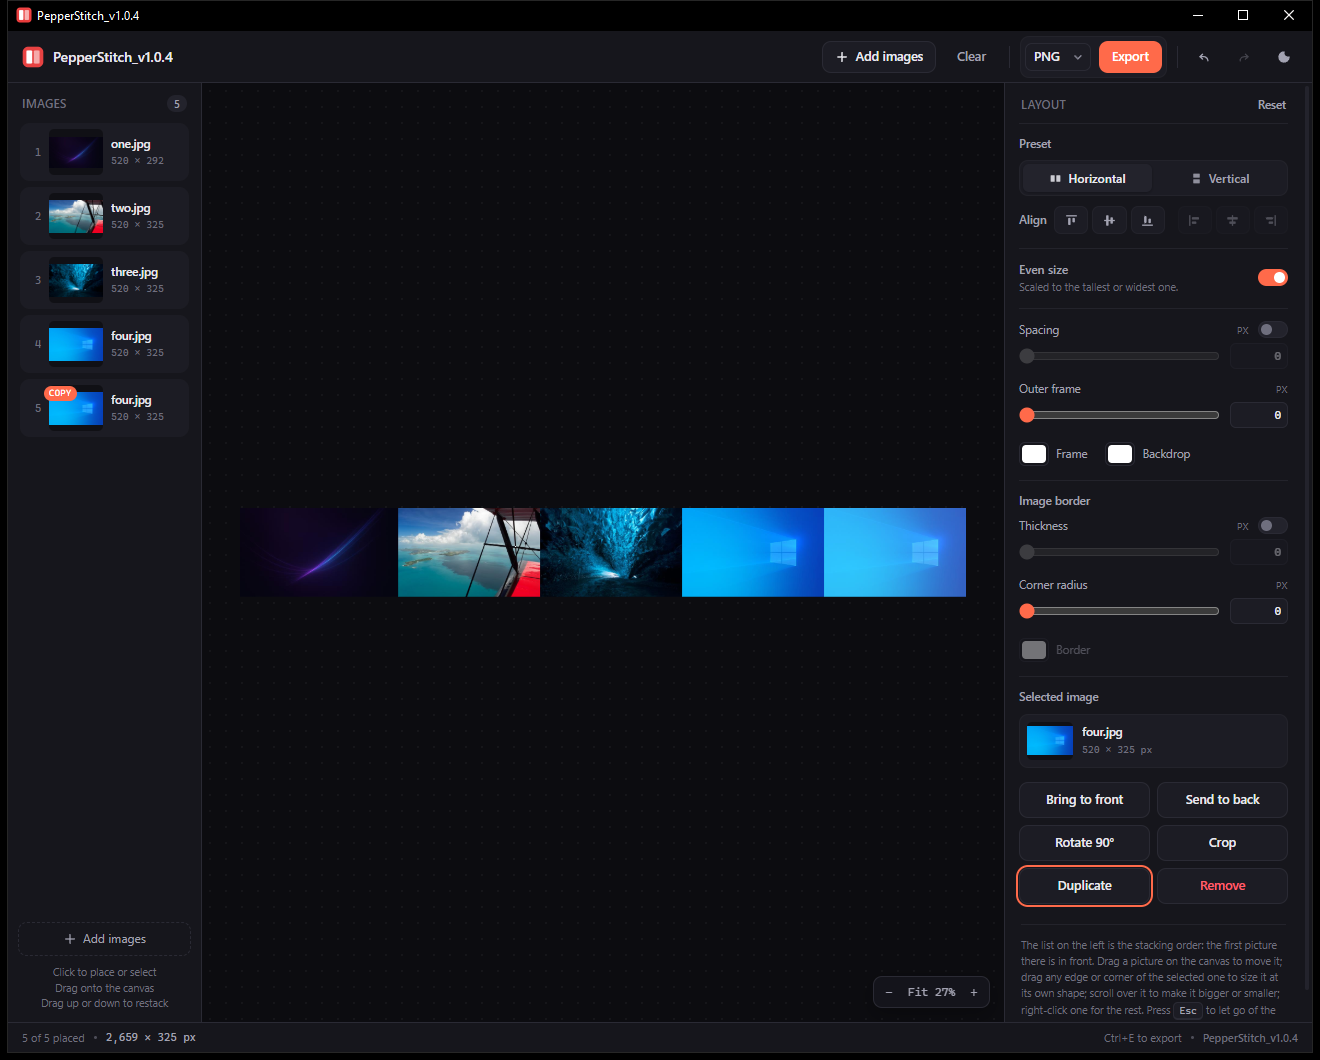
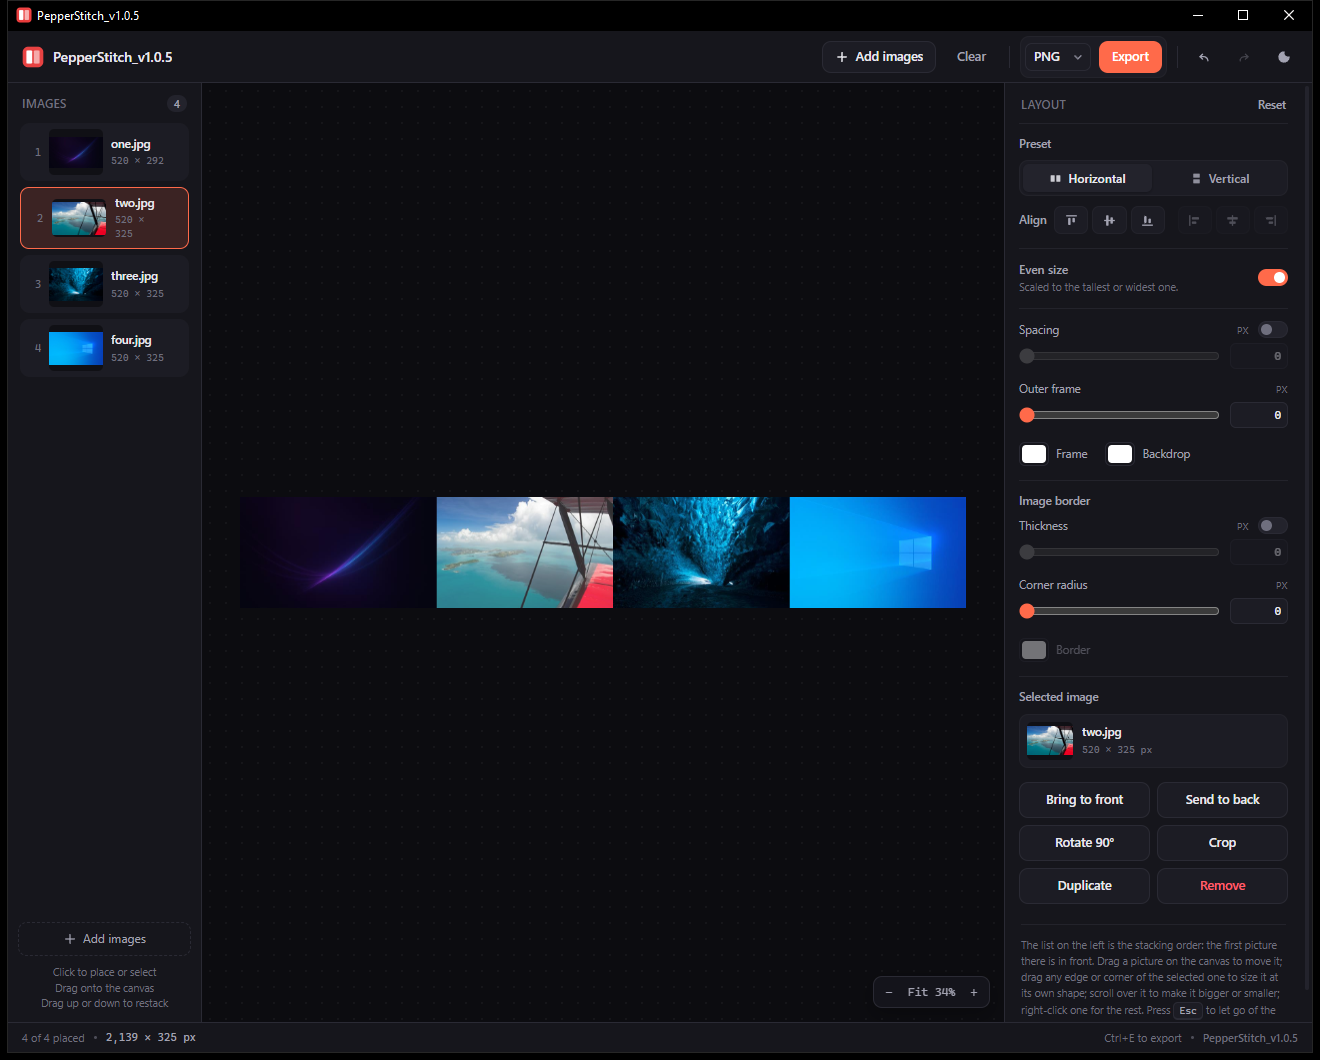
Light the chosen picture's row in the list
Choosing a picture on the canvas now lights its row in the image list, so the
rail, the panel and the veil on the canvas all name the same picture.
updateStripSelection() paints the highlight from the selection and is called
from updateSelectionPanel() and from the end of renderStrip(), since the rows
are rebuilt whenever the list changes.

The rail only scrolls to the row when the selection has actually changed: a
render, a reorder or a preset must not move the list under the pointer.

The screenshot is regenerated for 1.0.5, with two.jpg chosen.

diff --git a/assets/app.js b/assets/app.js
@@ -1956,6 +1956,34 @@ function renderStrip() {
 
     els.strip.append(item);
   });
+
+  // The rows are new, so the highlight has to be put back on them.
+  updateStripSelection();
+}
+
+// The picture chosen on the canvas lights its row in the list, so the rail and
+// the panel name the same picture.  The rail scrolls to it only when the choice
+// has actually changed: a render, a reorder or a preset must not move the list
+// under the pointer.
+let lastStripSelection = null;
+
+function updateStripSelection({ reveal = false } = {}) {
+  const item = selectedItem();
+  const sourceId = item ? item.sourceId : null;
+
+  for (const row of els.strip.querySelectorAll('li.thumb')) {
+    const selected = sourceId !== null && Number(row.dataset.id) === sourceId;
+    row.classList.toggle('selected', selected);
+    if (selected) row.setAttribute('aria-current', 'true');
+    else row.removeAttribute('aria-current');
+  }
+
+  if (!reveal || sourceId === lastStripSelection) return;
+  if (sourceId !== null) {
+    const row = els.strip.querySelector(`li.thumb[data-id="${sourceId}"]`);
+    if (row) row.scrollIntoView({ block: 'nearest' });
+  }
+  lastStripSelection = sourceId;
 }
 
 // One row is one picture.  A click on a row that is already on the canvas
@@ -2249,6 +2277,9 @@ function updateSelectionPanel() {
   // before the early return below.
   els.cropBar.hidden = !cropping;
   els.cropButton.disabled = cropping;
+
+  // Before the early return, so letting go of the selection clears the list too.
+  updateStripSelection({ reveal: true });
 
   els.selectionGroup.hidden = !item || !source;
   if (!item || !source) return;

diff --git a/assets/style.css b/assets/style.css
@@ -378,6 +378,12 @@ input[type="checkbox"] {
 .thumb:hover { background: var(--surface-3); }
 .thumb:active { cursor: grabbing; }
 .thumb.carrying { opacity: 0.45; }
+/* The picture chosen on the canvas, lit the way it is there: the row that owns
+   it carries the accent, so the list and the panel name the same picture. */
+.thumb.selected {
+  border-color: var(--accent);
+  background: var(--accent-soft);
+}
 /* A thumbnail being dragged up or down the list: lifted off the rail, with the
    others making room for it. */
 .thumb.reordering {

diff --git a/AGENTS.md b/AGENTS.md
@@ -331,7 +331,7 @@ from.
 | library | drag out to the stage | carry a ghost; drop on the stage to place the picture there, or to move it if it is already placed |
 | library | × | remove the source and its picture from the canvas |
 | library | right-click | nothing |
-| canvas | click / drag | select and move; snaps to neighbours |
+| canvas | click / drag | select and move; snaps to neighbours, and the chosen picture's row in the list lights up |
 | canvas | drag with <kbd>Shift</kbd> | move without snapping |
 | canvas | drag an edge or corner | size the selected picture at its own ratio; snaps to the others |
 | canvas | drag an edge or corner with <kbd>Shift</kbd> | size without snapping |
@@ -364,6 +364,12 @@ one: one row is one picture, and **Duplicate** is what makes another.
 **Bring to front** and **Send to back** — the first two buttons under the selected
 picture, and the top two entries of the right-click menu — are `moveSourceToEdge()`,
 the same act as dragging the row to the top or bottom of the list.
+`updateStripSelection()` lights the row of the chosen picture (`.thumb.selected`,
+the accent), so the list, the panel and the veil on the canvas name the same
+picture. It is called from `updateSelectionPanel()` and from the end of
+`renderStrip()`, and only scrolls the rail to the row when the selection has
+actually changed: a render, a reorder or a preset must not move the list under
+the pointer.
 Leaving the rail mid-reorder therefore just redraws the list as it was and
 becomes a carry — the sideways drag is what a carry looks like from the start,
 and it is the one gesture that must not be mistaken for a reorder. The canvas

diff --git a/README.md b/README.md
@@ -31,8 +31,10 @@ editor.
   **Duplicate** gives the copy a row of its own, marked *copy*, so the two can
   sit at different depths — and **Bring to front** and **Send to back**, on the
   right-click menu and under the selected picture, do the same thing as dragging
-  that row to the top or the bottom of the list. The × on a thumbnail drops the
-  picture from the library and takes it off the canvas with it.
+  that row to the top or the bottom of the list. The picture chosen on the canvas
+  lights its row in the list, so the two always name the same one. The × on a
+  thumbnail drops the picture from the library and takes it off the canvas with
+  it.
 - **Arrange, then free.** The two presets are actions: Horizontal and Vertical
   pack the pictures once, in the order they stand in the library — so putting the
   list in a different order and pressing a preset re-packs the row or column to
